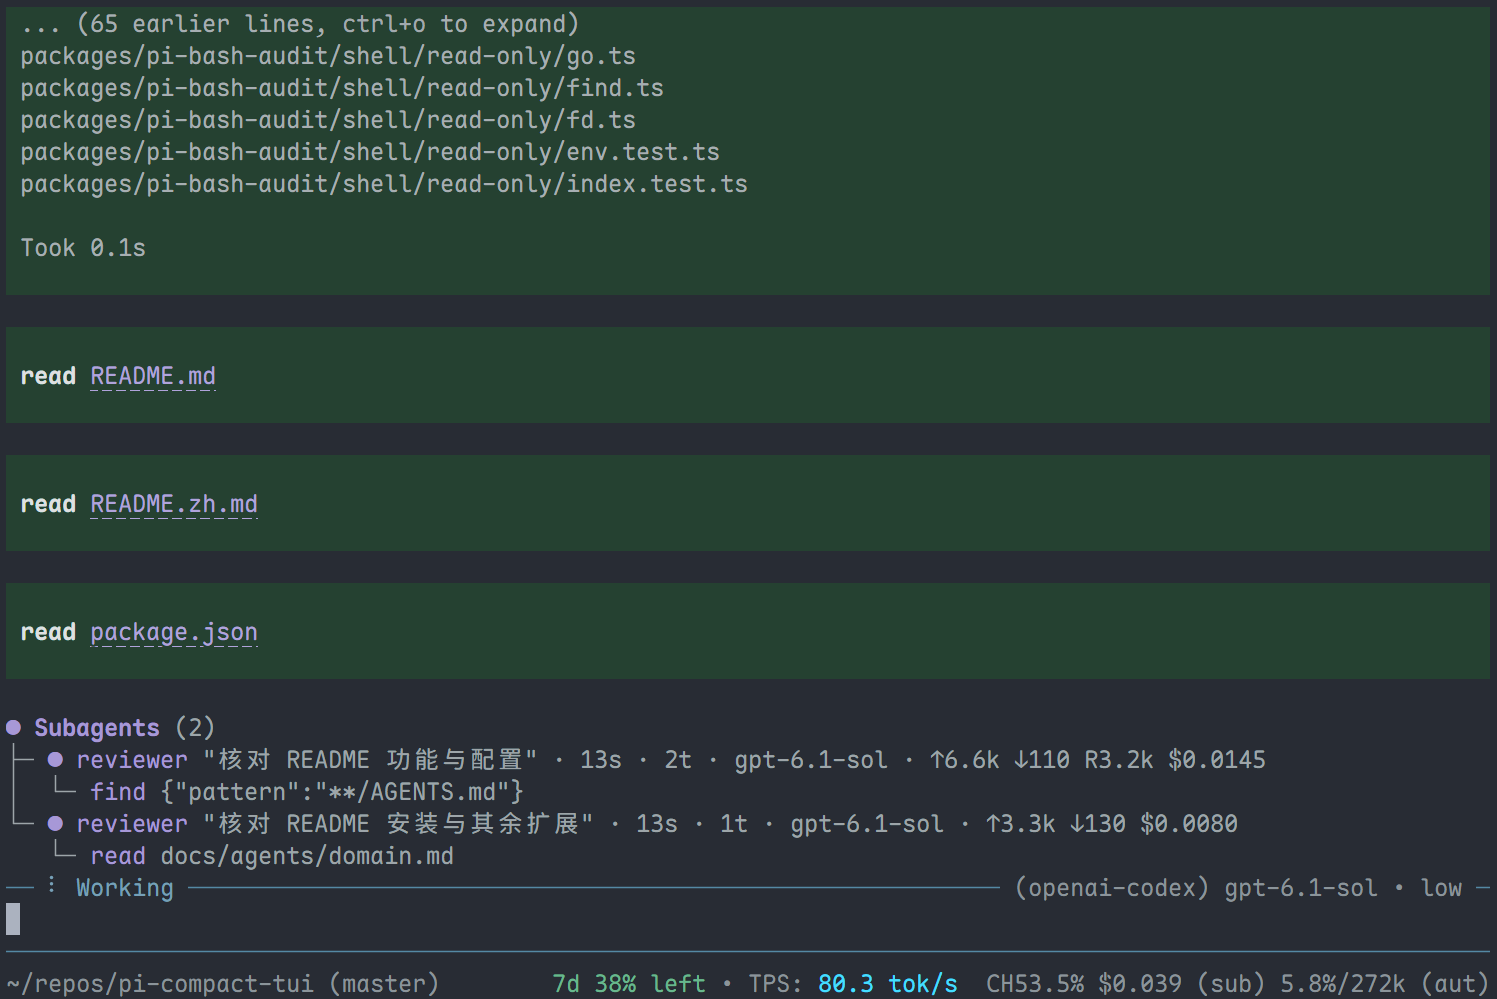
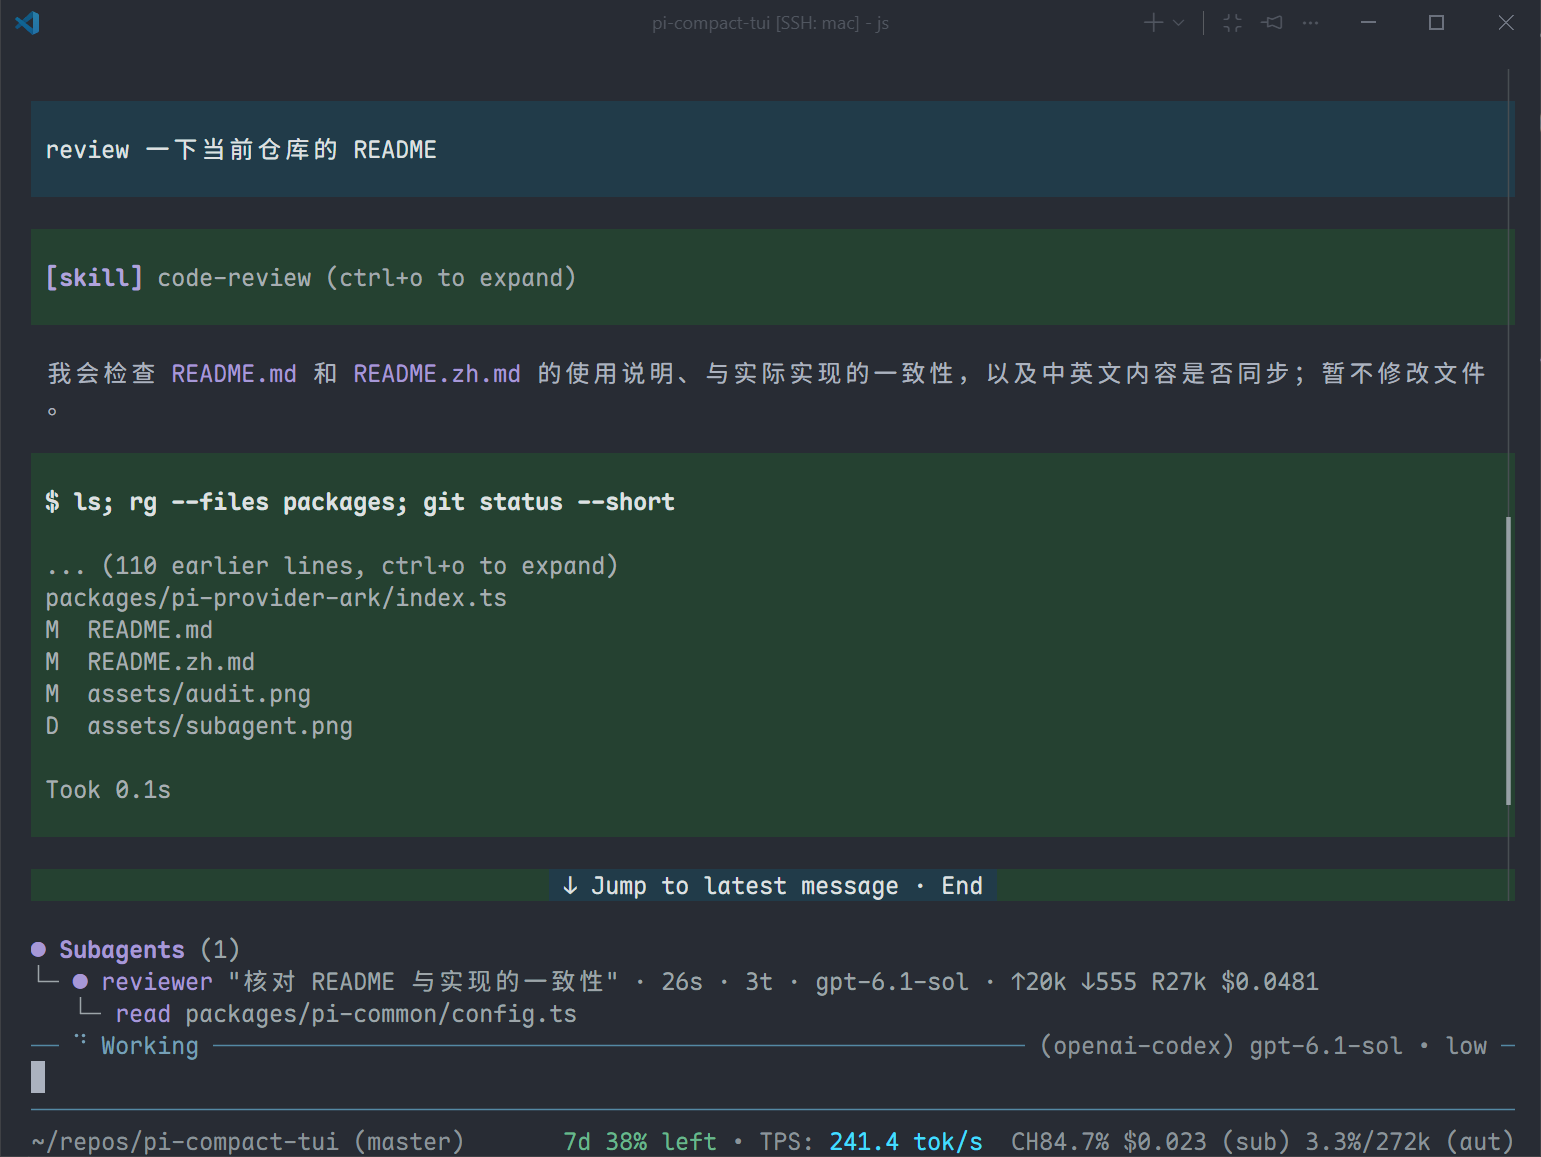
docs: clarify audit rules and refresh extension screenshots

diff --git a/README.md b/README.md
@@ -44,14 +44,52 @@ Intercepts bash commands executed by Pi, with two layers of protection:
 
 Field descriptions:
 
-- `model`: Audit model in `<provider>/<model-id>` format. Defaults to the current session model when omitted.
+- `enable`: Whether auditing is enabled. Defaults to `false`; completing `/audit` enables it automatically.
+- `model`: Audit model in `<provider>/<model-id>` format. If no model is configured or the model is unavailable, commands requiring model audit require manual confirmation instead.
 - `thinkingLevel`: `off` / `minimal` / `low` / `medium` / `high` / `xhigh` / `max`.
 - `timeoutMs`: Model audit timeout in milliseconds. Defaults to `10000`.
-- `rules`: Each rule contains:
-  - `command`: command name (for example, `pnpm`);
-  - `args`: arguments to match (for example, `["install"]`);
-  - `except`: exceptional argument combinations for which this rule does not apply;
-  - `action`: `allow` (allow directly) / `prompt` (require manual confirmation) / `auto` (audit with the model).
+- `rules`: Custom command rules. Defaults to an empty array; matching is described below.
+
+**Audit rules**
+
+Custom rules are checked in array order. The first matching rule without a matching exception takes effect. If no rule matches, the built-in read-only allowlist is used; other commands are sent to model audit. Custom rules take precedence over the built-in allowlist.
+
+Each rule contains:
+
+- `command`: Matches the command name exactly, such as `pnpm`; `/usr/bin/pnpm` is not automatically treated as `pnpm`.
+- `args`: Matches parsed arguments in order, not the entire command text. Omit it or use `[]` to match any arguments.
+- `except`: An optional array of exceptions in the form `[{ "args": ["..."] }]`. Any matching exception skips this rule and continues checking later rules; it does not reject the command outright.
+- `action`: `allow` (allow) / `prompt` (require manual confirmation) / `auto` (model audit, or manual confirmation if no model is available).
+
+Both `args` and each exception's `args` use the same argument patterns:
+
+| Pattern                        | Matching behavior                                                                                                              |
+| ------------------------------ | ------------------------------------------------------------------------------------------------------------------------------ |
+| A literal, such as `"install"` | Matches one argument exactly. An all-literal array matches a prefix, so `["install"]` also matches `install --frozen-lockfile` |
+| `"*"` or `"--*=*"`             | Matches one argument; `*` represents any length of text within that argument                                                   |
+| `"/regular expression/"`       | Matches one complete argument using a regular expression; trailing flags are not supported                                     |
+| `"**"`                         | Matches zero or more arguments                                                                                                 |
+
+An array containing a wildcard or regular expression must match the entire argument list; add `"**"` explicitly to allow additional arguments. For example, `["**", "-rf", "**"]` matches the standalone argument `-rf` anywhere in the list, but not `-fr` or other equivalent forms.
+
+This example `rules` array allows ordinary `pnpm install` calls but sends calls containing `--ignore-scripts` to model audit:
+
+```json
+[
+  {
+    "command": "pnpm",
+    "args": ["install"],
+    "except": [{ "args": ["install", "**", "--ignore-scripts", "**"] }],
+    "action": "allow"
+  },
+  { "command": "pnpm", "args": ["install"], "action": "auto" },
+  { "command": "rm", "args": ["**", "-rf", "**"], "action": "prompt" }
+]
+```
+
+Pipelines and compound commands combine the results of their parts, with priority `prompt` > `auto` > `allow`. Even when a rule returns `allow`, additional shell behavior such as write redirection or background execution may send the entire command to model audit. Dynamic commands or arguments are not directly allowed by these rules either.
+
+**Audit scope**: This extension audits only the main session's bash tool calls. It does not cover subagent bash tool calls or `!` commands in subagent profiles. Profile `!` commands use separate command approval; see “Command approval” in the Subagent section below.
 
 ### Clear and Start a New Session (`pi-clear-command`)
 
@@ -102,7 +140,7 @@ Customize the editor borders and footer to put model, usage, and Git information
 - `editor`: `topRight`, `bottomLeft`, and `bottomRight` place items in the corresponding editor corners. Set to `{}` to clear all three positions without affecting Pi's activity indicator or scrolling hints.
 - `separator`: Text between non-empty items in the same array. Defaults to one space.
 
-Items appear in array order, without built-in separators such as bullets or decorative parentheses. Use any item below in any position; move it to change its position, remove it to hide it, or repeat it to display it more than once. Omitting the entire `footer` or `editor` field keeps that section's default layout. Providing a field replaces its entire layout rather than merging with defaults; unspecified line sides or editor positions are empty. Content is truncated or hidden when space is limited, with Pi's activity indicator and scrolling hints taking priority.
+Items appear in array order, without built-in separators such as bullets or decorative parentheses. Use any item below in any position; move it to change its position or repeat it to display it more than once. Omitting the entire `footer` or `editor` field keeps that section's default layout. Providing a field replaces its entire layout rather than merging with defaults; unspecified line sides or editor positions are empty. Content is truncated or hidden when space is limited, with Pi's activity indicator and scrolling hints taking priority.
 
 **Available items**:
 
@@ -130,7 +168,7 @@ Press `Shift+↑` / `Shift+↓` in the input box to browse previous input. The l
 
 ### Session Recap (`pi-recap`)
 
-When a session is idle, automatically generates a short recap above the input box (what you are currently doing and the next step). It is cleared automatically when you begin a new input or resume work. You can also run `/recap` at any time to generate one manually.
+When a session is idle, automatically generates a short recap above the input box (what you are currently doing and the next step). It is cleared automatically when you submit a new input or resume work. You can also run `/recap` at any time to generate one manually.
 
 **Configuration**: Edit `~/.pi/agent/extensions/recap.json`:
 
@@ -150,9 +188,7 @@ When a session is idle, automatically generates a short recap above the input bo
 
 Provides Pi with an `agent` tool for delegating independent subtasks to subagents running in isolated contexts. Three subagents are included: `explore`, `planner`, and `reviewer`; you can add your own as well.
 
-![Subagent](./assets/subagent.png)
-
-**Add a subagent**: Place a Markdown file in `~/.pi/agents/` (global) or `.pi/agents/` (project). The filename becomes the subagent name:
+**Add a subagent**: Place a Markdown file in `~/.pi/agent/agents/` (global) or `.pi/agents/` (project). The filename becomes the subagent name:
 
 ```markdown
 ---

diff --git a/README.zh.md b/README.zh.md
@@ -44,14 +44,52 @@ pi install git:github.com/saltfishpr/pi-compact-tui
 
 字段说明：
 
-- `model`：审计模型，格式 `<provider>/<model-id>`；不填则使用当前会话模型。
+- `enable`：是否启用审计，默认为 `false`；通过 `/audit` 完成选择后自动启用。
+- `model`：审计模型，格式 `<provider>/<model-id>`。未配置或模型不可用时，需要审计的命令改为人工确认。
 - `thinkingLevel`：`off` / `minimal` / `low` / `medium` / `high` / `xhigh` / `max`。
 - `timeoutMs`：模型审计超时时间，单位为毫秒，默认为 `10000`。
-- `rules`：每条规则包含：
-  - `command`：命令名（如 `pnpm`）；
-  - `args`：需要匹配的参数（如 `["install"]`）；
-  - `except`：例外参数组合，命中后不应用本规则；
-  - `action`：`allow`（直接放行）/ `prompt`（人工确认）/ `auto`（交给模型审计）。
+- `rules`：自定义命令规则，默认为空数组，匹配方式见下文。
+
+**审计规则**
+
+自定义规则按数组顺序检查，第一条匹配且未命中例外的规则生效；没有匹配规则时，使用内置只读命令白名单，其余命令交给模型审计。自定义规则优先于内置白名单。
+
+每条规则包含：
+
+- `command`：精确匹配命令名，例如 `pnpm`；不会自动将 `/usr/bin/pnpm` 视为 `pnpm`。
+- `args`：按顺序匹配解析后的参数，不是匹配整段命令文本。省略或设为 `[]` 时匹配任意参数。
+- `except`：可选的例外数组，格式为 `[{ "args": ["..."] }]`。任一例外匹配时，跳过本规则并继续检查后续规则，不代表直接拒绝执行。
+- `action`：`allow`（放行）/ `prompt`（人工确认）/ `auto`（模型审计；没有可用模型时改为人工确认）。
+
+`args` 和每个例外的 `args` 使用相同的参数模式：
+
+| 模式                   | 匹配方式                                                                                                |
+| ---------------------- | ------------------------------------------------------------------------------------------------------- |
+| 字面量，如 `"install"` | 精确匹配一个参数；整个数组均为字面量时按前缀匹配，因此 `["install"]` 也匹配 `install --frozen-lockfile` |
+| `"*"` 或 `"--*=*"`     | 匹配一个参数，`*` 可代表该参数内任意长度的文本                                                          |
+| `"/正则表达式/"`       | 用正则表达式匹配一个完整参数，不支持尾部 flags                                                          |
+| `"**"`                 | 匹配零个或多个参数                                                                                      |
+
+只要数组包含通配符或正则表达式，就必须匹配完整参数列表；需要允许额外参数时，显式添加 `"**"`。例如 `["**", "-rf", "**"]` 匹配任意位置出现的独立参数 `-rf`，但不匹配 `-fr` 或其他等价写法。
+
+下面的 `rules` 示例允许一般的 `pnpm install`，但将带 `--ignore-scripts` 的调用交给模型审计：
+
+```json
+[
+  {
+    "command": "pnpm",
+    "args": ["install"],
+    "except": [{ "args": ["install", "**", "--ignore-scripts", "**"] }],
+    "action": "allow"
+  },
+  { "command": "pnpm", "args": ["install"], "action": "auto" },
+  { "command": "rm", "args": ["**", "-rf", "**"], "action": "prompt" }
+]
+```
+
+管道或组合命令会综合各部分的结果，优先级为 `prompt` > `auto` > `allow`。即使命中 `allow`，写入重定向、后台执行等额外 shell 行为仍可能使整段命令进入模型审计；动态命令或参数也不会直接按这些规则放行。
+
+**审计范围**：此扩展仅审计主会话的 bash 工具调用，不覆盖 subagent 的 bash 工具调用，也不覆盖 subagent 配置中的 `!` 命令。`!` 命令由独立的命令授权控制，详见下方 Subagent 的“命令授权”说明。
 
 ### 清屏新会话（`pi-clear-command`）
 
@@ -102,7 +140,7 @@ pi install git:github.com/saltfishpr/pi-compact-tui
 - `editor`：`topRight`、`bottomLeft`、`bottomRight` 分别对应输入框右上、左下、右下。设为 `{}` 清空这三个位置，但不影响 Pi 的活动状态和滚动提示。
 - `separator`：同一数组中非空元素之间的分隔文本，默认为一个空格。
 
-数组顺序就是显示顺序，元素不自带圆点分隔符或装饰括号。可以在任意位置使用下表中的元素；移动元素即可更换位置，删除元素即可隐藏，重复添加则重复显示。省略整个 `footer` 或 `editor` 字段时保留该部分默认布局；提供字段时替换整个布局，不与默认值合并，未填写的 `left`、`right` 或边框位置为空。空间不足时，内容会截断或隐藏；Pi 的活动状态和滚动提示优先显示。
+数组顺序就是显示顺序，元素不自带圆点分隔符或装饰括号。可以在任意位置使用下表中的元素；移动元素即可更换位置，重复添加则重复显示。省略整个 `footer` 或 `editor` 字段时保留该部分默认布局；提供字段时替换整个布局，不与默认值合并，未填写的 `left`、`right` 或边框位置为空。空间不足时，内容会截断或隐藏；Pi 的活动状态和滚动提示优先显示。
 
 **可用元素**：
 
@@ -130,7 +168,7 @@ pi install git:github.com/saltfishpr/pi-compact-tui
 
 ### 会话回顾（`pi-recap`）
 
-会话空闲时在输入框上方自动生成一句简短的回顾（当前在做什么、下一步是什么），开始新输入或恢复工作后自动清除；也可以随时运行 `/recap` 手动生成。
+会话空闲时在输入框上方自动生成一句简短的回顾（当前在做什么、下一步是什么），提交新输入或恢复工作后自动清除；也可以随时运行 `/recap` 手动生成。
 
 **配置**：编辑 `~/.pi/agent/extensions/recap.json`：
 
@@ -150,9 +188,7 @@ pi install git:github.com/saltfishpr/pi-compact-tui
 
 为 Pi 提供 `agent` 工具，可把独立子任务委托给在隔离上下文中运行的子代理。内置 `explore`（探索）、`planner`（规划）和 `reviewer`（代码审查），你也可以添加自己的。
 
-![子代理](./assets/subagent.png)
-
-**添加子代理**：在 `~/.pi/agents/`（全局）或 `.pi/agents/`（项目）下放置 Markdown 文件，文件名即子代理名：
+**添加子代理**：在 `~/.pi/agent/agents/`（全局）或 `.pi/agents/`（项目）下放置 Markdown 文件，文件名即子代理名：
 
 ```markdown
 ---
